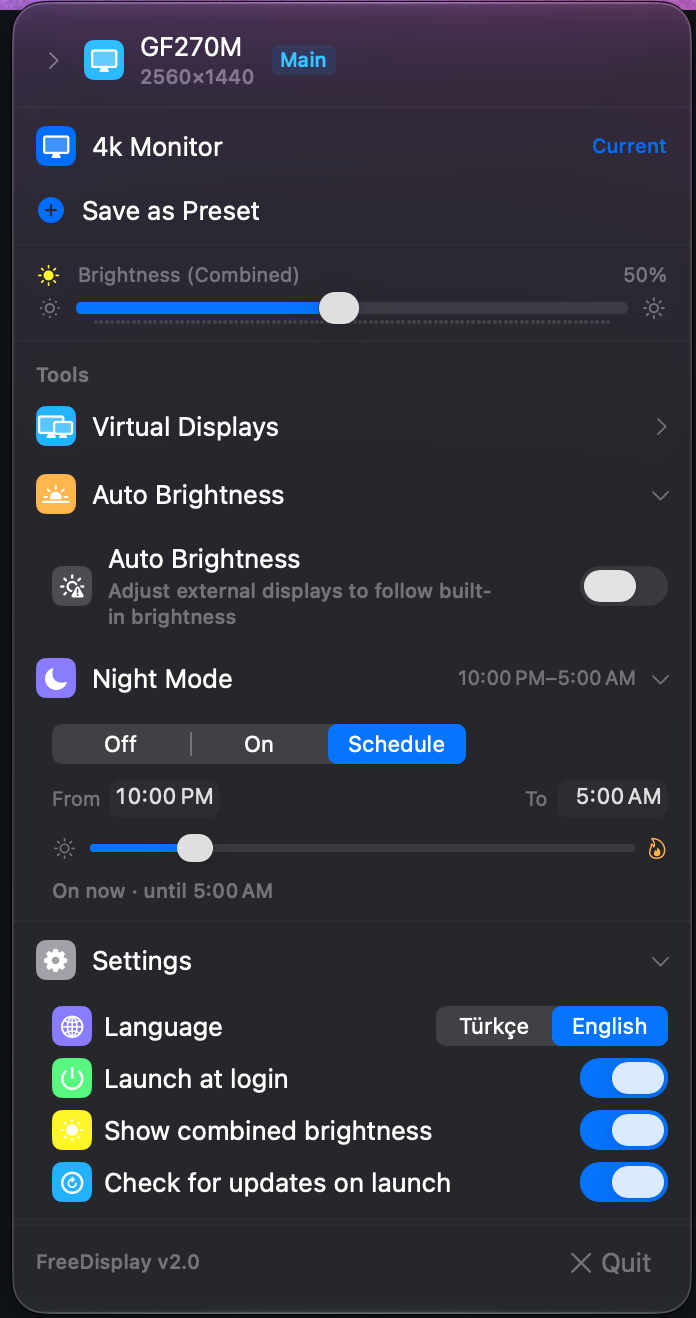
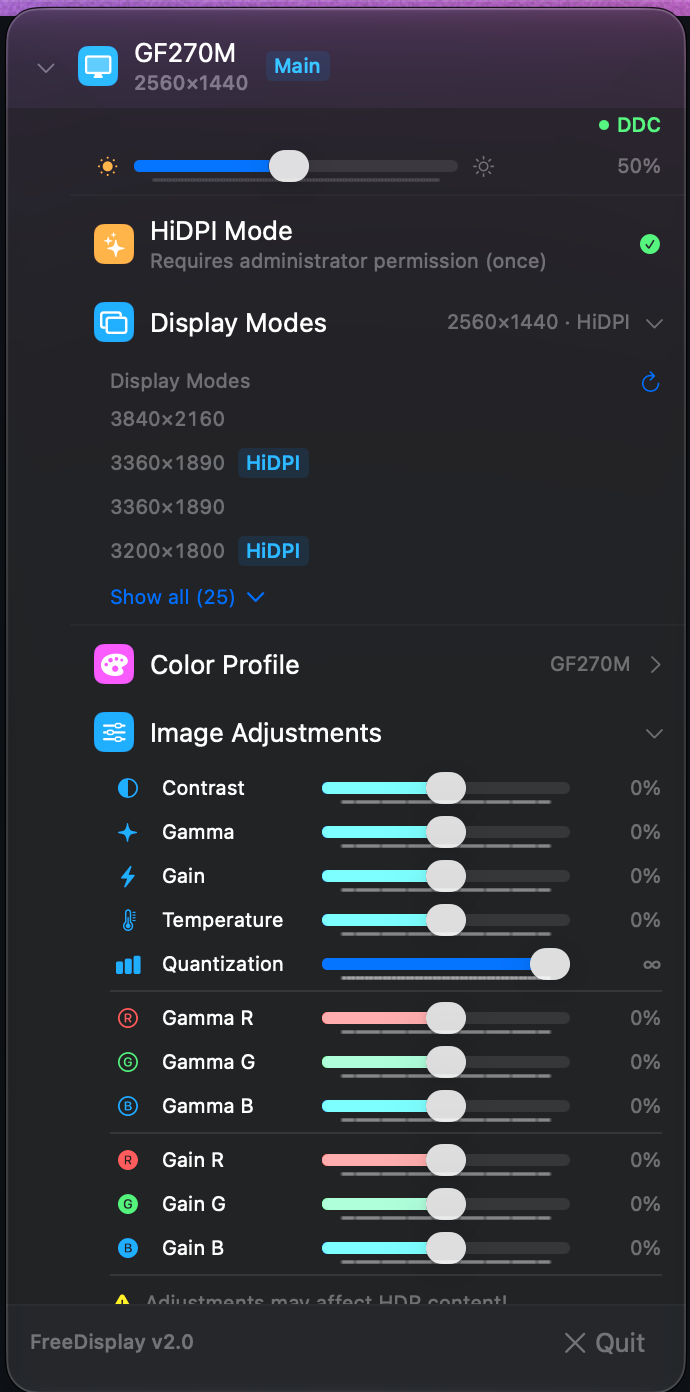
README: show three screenshots side by side

diff --git a/README.md b/README.md
@@ -52,9 +52,9 @@ BetterDisplay is a great app, but its best features are locked behind a paid Pro
 ## Screenshots
 
 <p align="center">
-  <img src="docs/Screenshot-1.png" alt="Display panel: brightness, HiDPI mode, display modes, color profile and image adjustments" height="480">
-  &nbsp;&nbsp;
-  <img src="docs/Screenshot-2.png" alt="Main menu: presets, combined brightness, night mode schedule and settings with the language switch" height="480">
+  <img src="docs/Screenshot-1.png" alt="Main menu: display, presets, combined brightness and tools" width="260" align="top">
+  <img src="docs/Screenshot-2.png" alt="Display panel: brightness, HiDPI mode, display modes, color profile and image adjustments" width="260" align="top">
+  <img src="docs/Screenshot-3.png" alt="Tools expanded: auto brightness, night mode schedule and settings with the language switch" width="260" align="top">
 </p>
 
 ---
